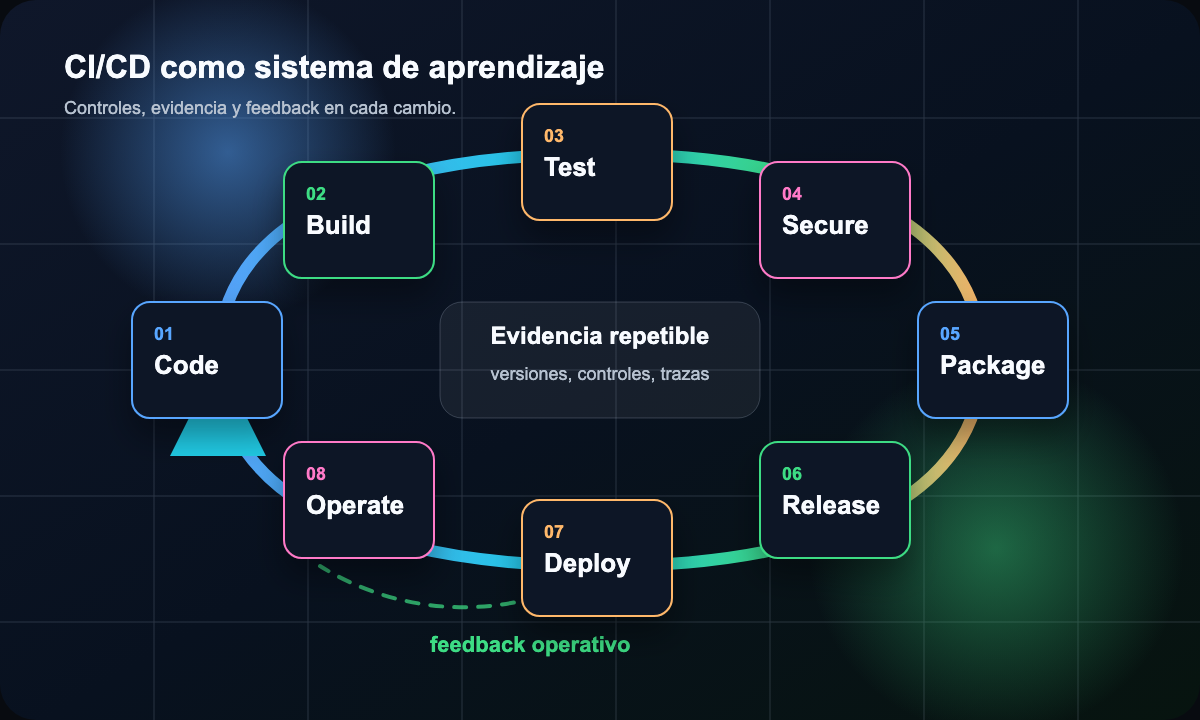
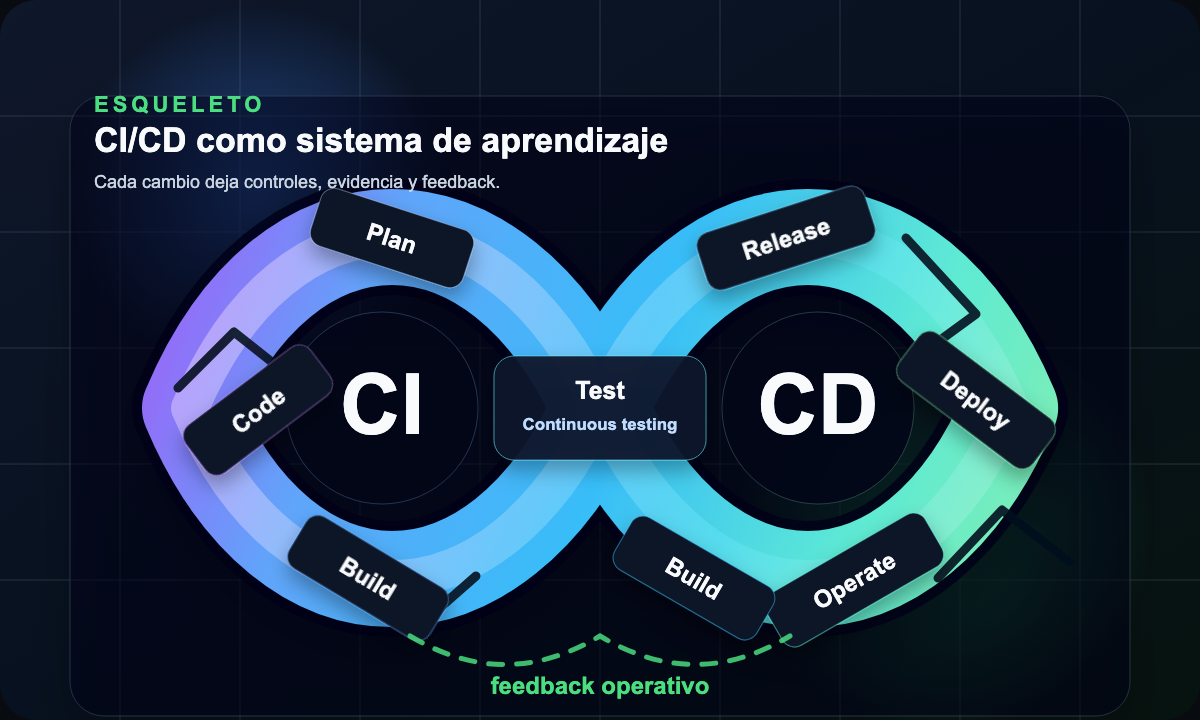
Use infinity CI CD visual

diff --git a/decks/intro-devops-es/styles/index.css b/decks/intro-devops-es/styles/index.css
@@ -299,7 +299,7 @@
 
 .cicd-spine-hero .media-frame {
   margin-top: 0;
-  max-width: 580px;
+  max-width: 620px;
   width: 100%;
 }
 

diff --git a/decks/intro-devops-es/public/media/README.md b/decks/intro-devops-es/public/media/README.md
@@ -3,8 +3,8 @@
 - `devops-culture.png`: Wikimedia Commons, "Wikimedia Developer Summit 2017 Group Photo", downloaded via Commons redirect. Used as an editorial image for DevOps culture and collaboration. Source: <https://commons.wikimedia.org/wiki/File:Wikimedia_Developer_Summit_2017_Group_Photo.png>
 - `cloud-operations.jpg`: Wikimedia Commons, "Datacenter Server Racks (22370909788)", downloaded via Commons redirect. Used as an editorial image for cloud and operations. Source: <https://commons.wikimedia.org/wiki/File:Datacenter_Server_Racks_(22370909788).jpg>
 - `software-lifecycle.svg`: deck-local SVG diagram created for this presentation. Used as the modern software lifecycle visual on slide 12. No external artwork is embedded.
-- `cicd-pipeline.svg`: deck-local SVG diagram created for this presentation after evaluating external CI/CD image options. Used as the core visual for the CI/CD spine slide. No external artwork is embedded.
-- `cicd-pipeline.png`: raster export of `cicd-pipeline.svg`. Used on slide 13 so the CI/CD spine appears as a concrete local image asset.
+- `cicd-pipeline.svg`: deck-local SVG infinity-loop diagram created for this presentation after evaluating external CI/CD image options. Used as the core visual for the CI/CD spine slide. No external artwork is embedded.
+- `cicd-pipeline.png`: raster export of `cicd-pipeline.svg`. Used on slide 13 so the CI/CD spine appears as a concrete local image asset with CI/CD as an infinity loop.
 - `certifications-strip.png`: user-provided real certification badge strip. Used on slide 2; do not recreate or infer individual badges from it.
 
 Images are stored locally so the deck renders offline. Replace them with

diff --git a/decks/intro-devops-es/deck.brief.md b/decks/intro-devops-es/deck.brief.md
@@ -145,7 +145,7 @@ Acceptance:
 | DevOps culture image | Wikimedia Commons | `decks/intro-devops-es/public/media/devops-culture.png` | Source-noted in `public/media/README.md` |
 | Software lifecycle image | Deck-local SVG | `decks/intro-devops-es/public/media/software-lifecycle.svg` | Original local SVG, source-noted in `public/media/README.md` |
 | Cloud operations image | Wikimedia Commons | `decks/intro-devops-es/public/media/cloud-operations.jpg` | Source-noted in `public/media/README.md` |
-| CI/CD spine diagram | Deck-local SVG | `decks/intro-devops-es/public/media/cicd-pipeline.svg` | Original local SVG, source-noted in `public/media/README.md` |
+| CI/CD spine diagram | Deck-local SVG | `decks/intro-devops-es/public/media/cicd-pipeline.svg` | Original infinity-loop SVG, source-noted in `public/media/README.md` |
 | CI/CD spine image | Deck-local PNG | `decks/intro-devops-es/public/media/cicd-pipeline.png` | Raster export used on slide 13 |
 | Certification badge strip | User-provided PNG | `decks/intro-devops-es/public/media/certifications-strip.png` | Real speaker-provided badge image used on slide 2 |
 

diff --git a/decks/intro-devops-es/slides.md b/decks/intro-devops-es/slides.md
@@ -289,7 +289,7 @@ transition: slide-left
     src="media/cicd-pipeline.png"
     fit="contain"
     title=""
-    alt="Diagrama de CI/CD con las etapas code, build, test, secure, package, release, deploy, operate y feedback operativo"
+    alt="Diagrama de CI/CD en forma de infinito con CI, CD, plan, code, build, test, release, deploy, operate y feedback operativo"
   />
 </div>
 